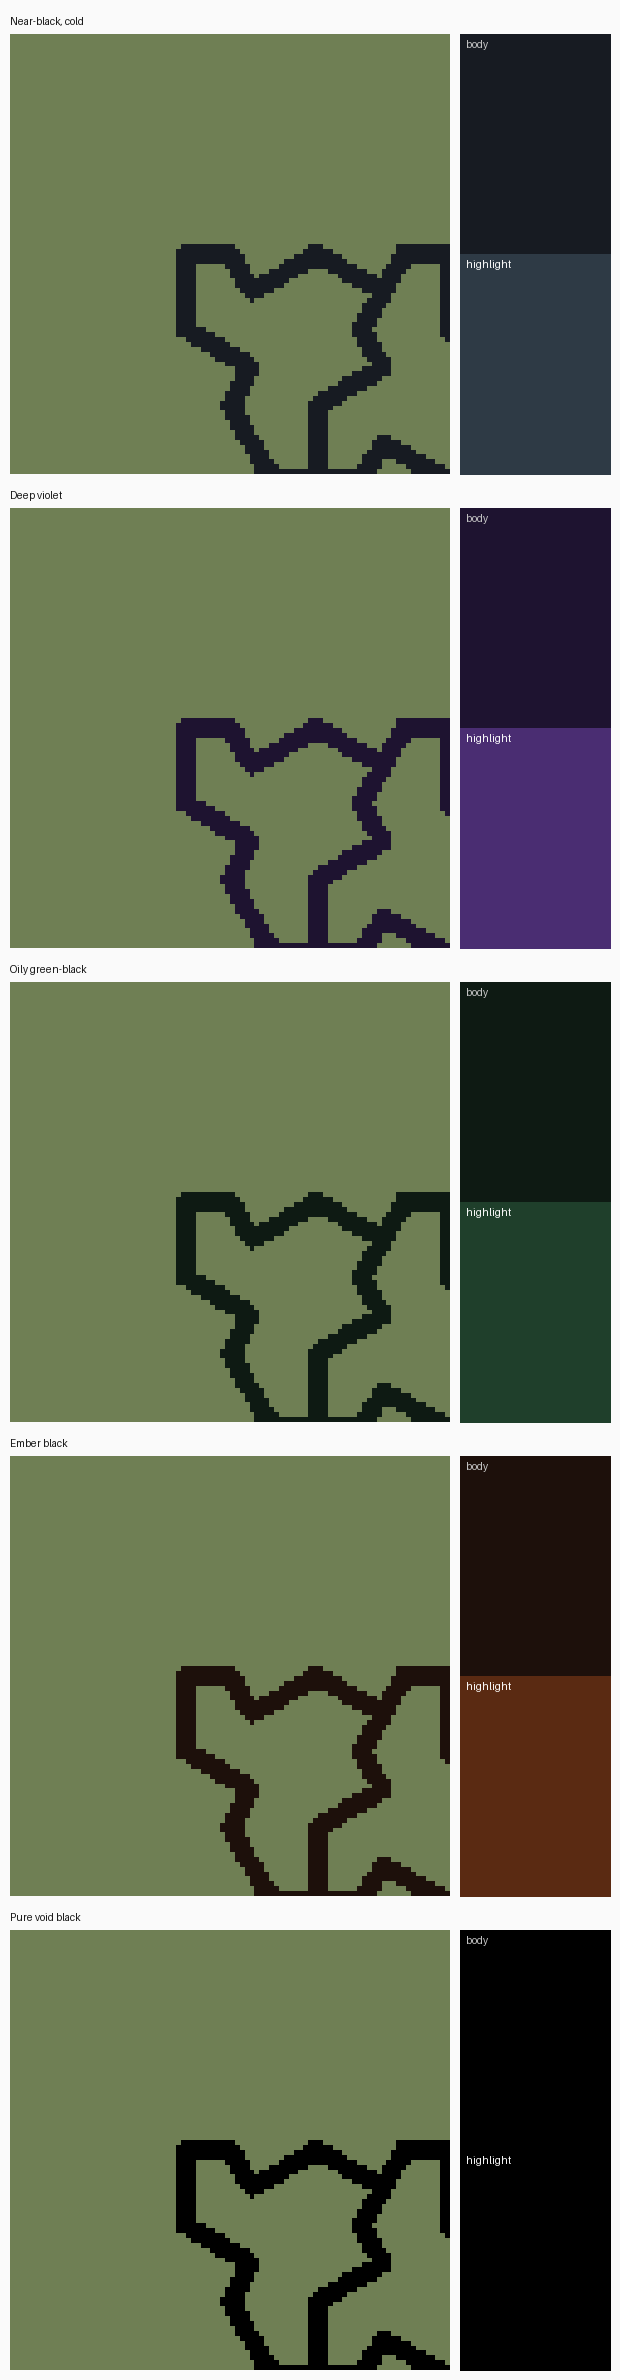
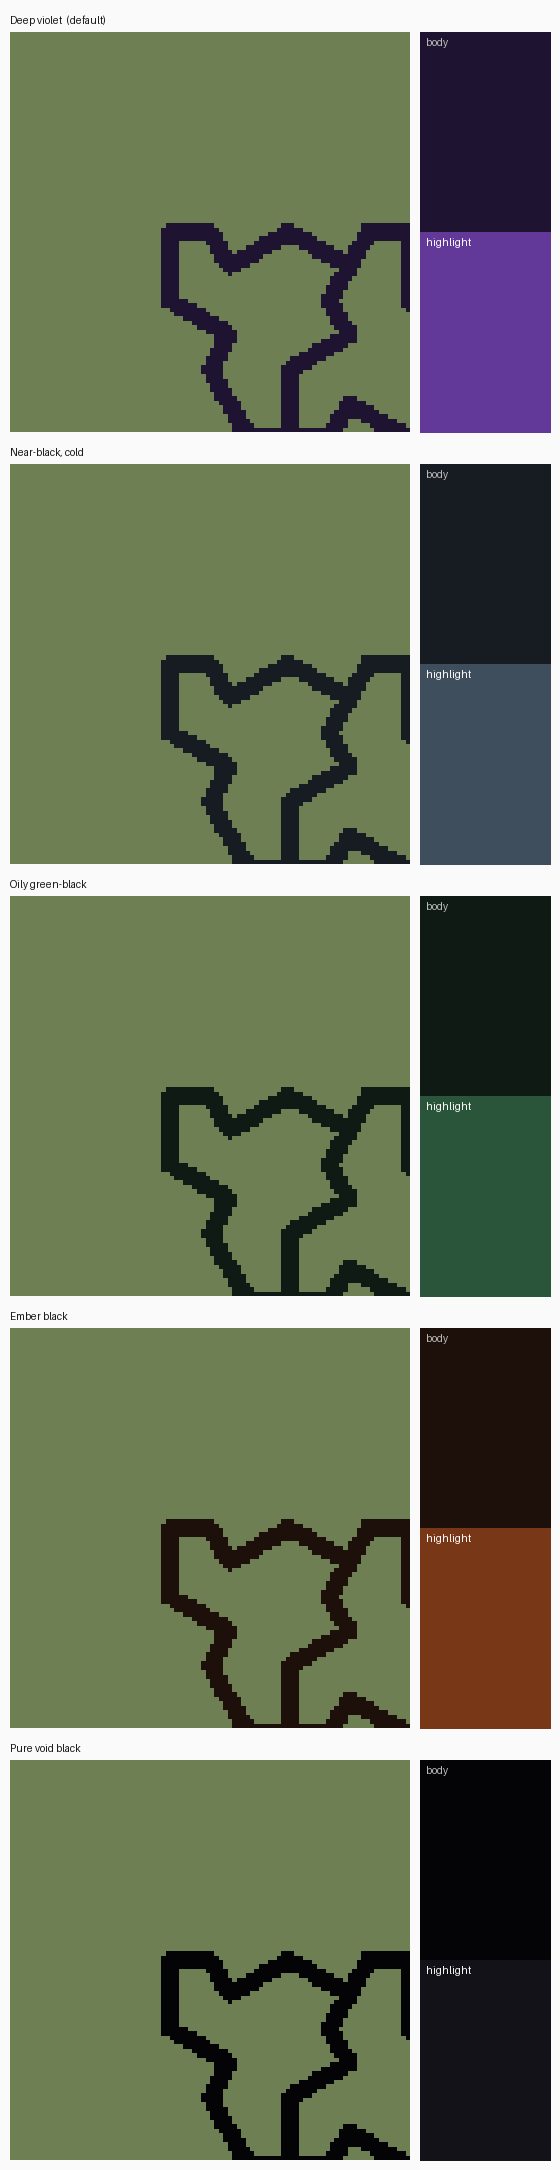
feat(mod): drop the glowing rift style, lift the highlights
The lava-shader style read as a hazard rather than a void and fought the
calm look of the rest of the mod. Removing it also drops a Space Age
conditional from the data stage.

Highlights lifted about a third across every colourway, which is what
the shader catches at a band's edges and the only thing that tells the
options apart. Two tests now encode that: a highlight must be clearly
lighter than its body, and no two colourways may have near-identical
highlights.

diff --git a/docs/design/hattorio-design.md b/docs/design/hattorio-design.md
@@ -411,7 +411,7 @@ Per planet, startup:
 |---|---|---|
 | `hattorio-hat-size-<planet>` | **41** (normal) | 15, 26, 41, 52 |
 | `hattorio-band-width-<planet>` | **3** (wide) | 1, 2, 3, 4 |
-| `hattorio-band-style` | liquid | liquid, void, rift |
+| `hattorio-band-style` | liquid | liquid, void |
 | `hattorio-band-colour` | violet | violet, cold, oily, ember, ink |
 | `hattorio-richness-override` (map) | 0 = automatic | 0 - 10 |
 | `hattorio-show-outline` (per player) | off | on, off |
@@ -428,8 +428,12 @@ still breaks. Band 3 keeps the bands visually substantial, which band 2
 does not at that cell size.
 
 Band style and band colour are **independent**: the style picks the
-shader laid over the surface, the colour picks what it is tinted, so a
-glowing rift can be violet and a flat void can be ember.
+shader laid over the surface, the colour picks what it is tinted.
+
+A third style using Vulcanus's lava shader was built and then removed
+after playtesting -- it read as a hazard rather than a void and fought
+the calm look of everything else. Removing it also dropped a Space Age
+conditional from the data stage.
 
 Only size and band are per planet. Band style and colour are global, and the other
 two are scoped by what they affect: richness is map-wide because ore is

diff --git a/wiki/Settings.md b/wiki/Settings.md
@@ -6,7 +6,7 @@ Two settings per planet, both fixed when the world is created.
 |---|---|---|
 | Cell size (centre to vertex, in tiles) | **41** (normal) | 15, 26, 41, 52 |
 | Band width (tiles) | **3** (wide) | 1, 2, 3, 4 |
-| Band appearance | Dark liquid | liquid, void, glowing rift |
+| Band appearance | Dark liquid | liquid, void |
 | Band colour | Deep violet | violet, cold, oily, ember, void black |
 
 Cell size and band width are dropdowns, labelled with how hard each makes the
@@ -46,9 +46,7 @@ Two independent settings: what the bands are made of, and what colour they
 are. Any combination works.
 
 **Style** picks the surface. *Dark liquid* is the default: animated, it moves
-and oozes. *Void* is flat and still, a hole rather than a liquid. *Glowing
-rift* uses the lava shader and needs Space Age; without it the mod falls back
-to dark liquid and says so in the log.
+and oozes. *Void* is flat and still, a hole rather than a liquid.
 
 **Colour** tints it. Every option is near-black on purpose, so the bands read
 as depth rather than paint — what separates them is the highlight the surface

diff --git a/README.md b/README.md
@@ -41,7 +41,7 @@ Per planet, set at world creation.
 |---|---|---|
 | Cell size (centre to vertex, tiles) | **41** (normal) | 15, 26, 41, 52 |
 | Band width (tiles) | **3** (wide) | 1, 2, 3, 4 |
-| Band appearance | Dark liquid | liquid, void, glowing rift |
+| Band appearance | Dark liquid | liquid, void |
 | Band colour | Deep violet | violet, cold, oily, ember, void black |
 
 Hat size is the dial that matters. It decides how much room you get and how
